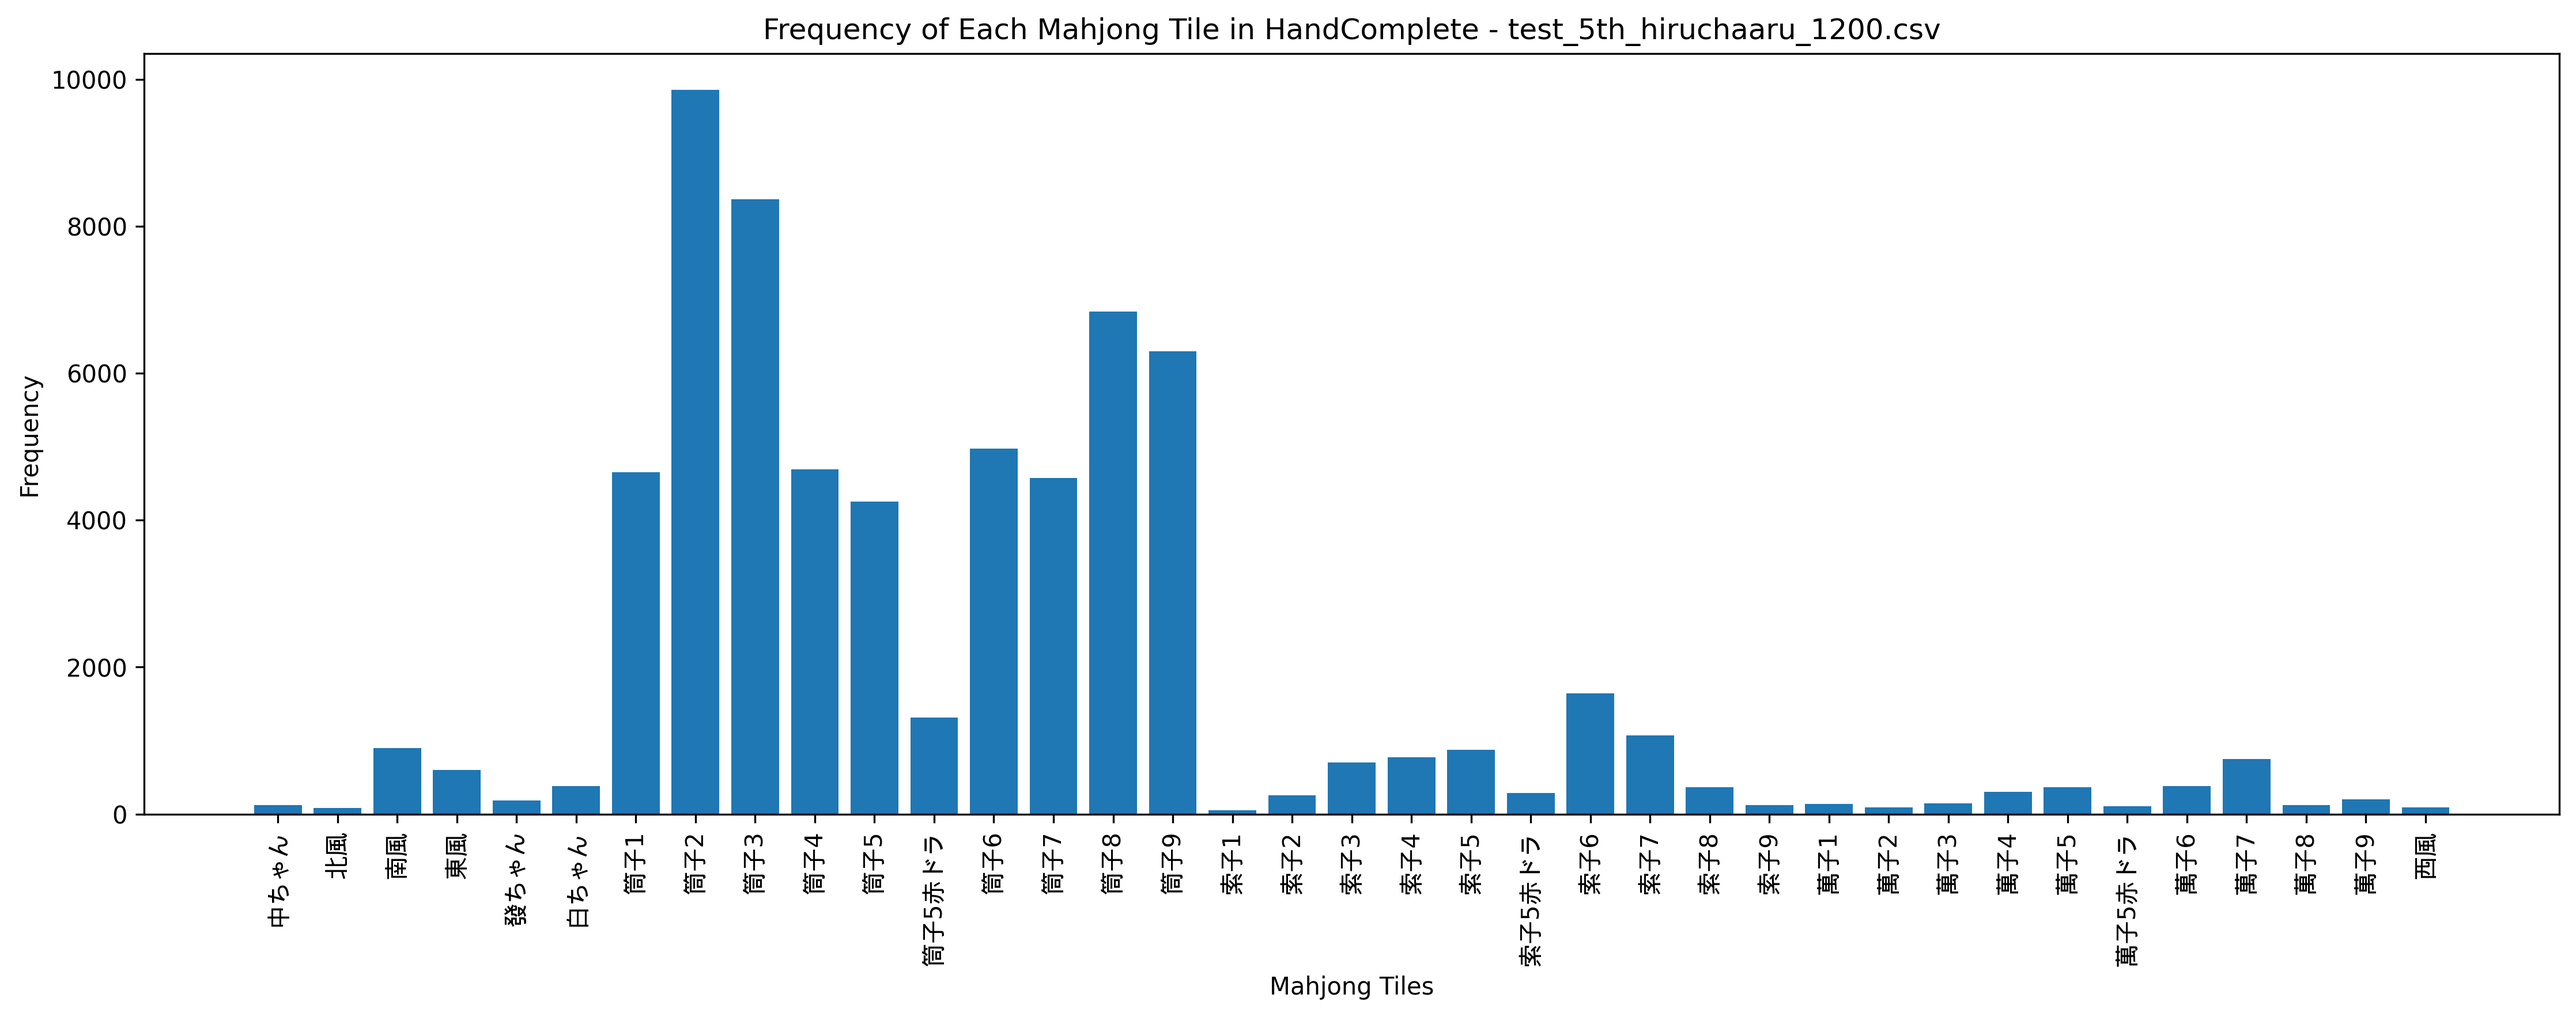
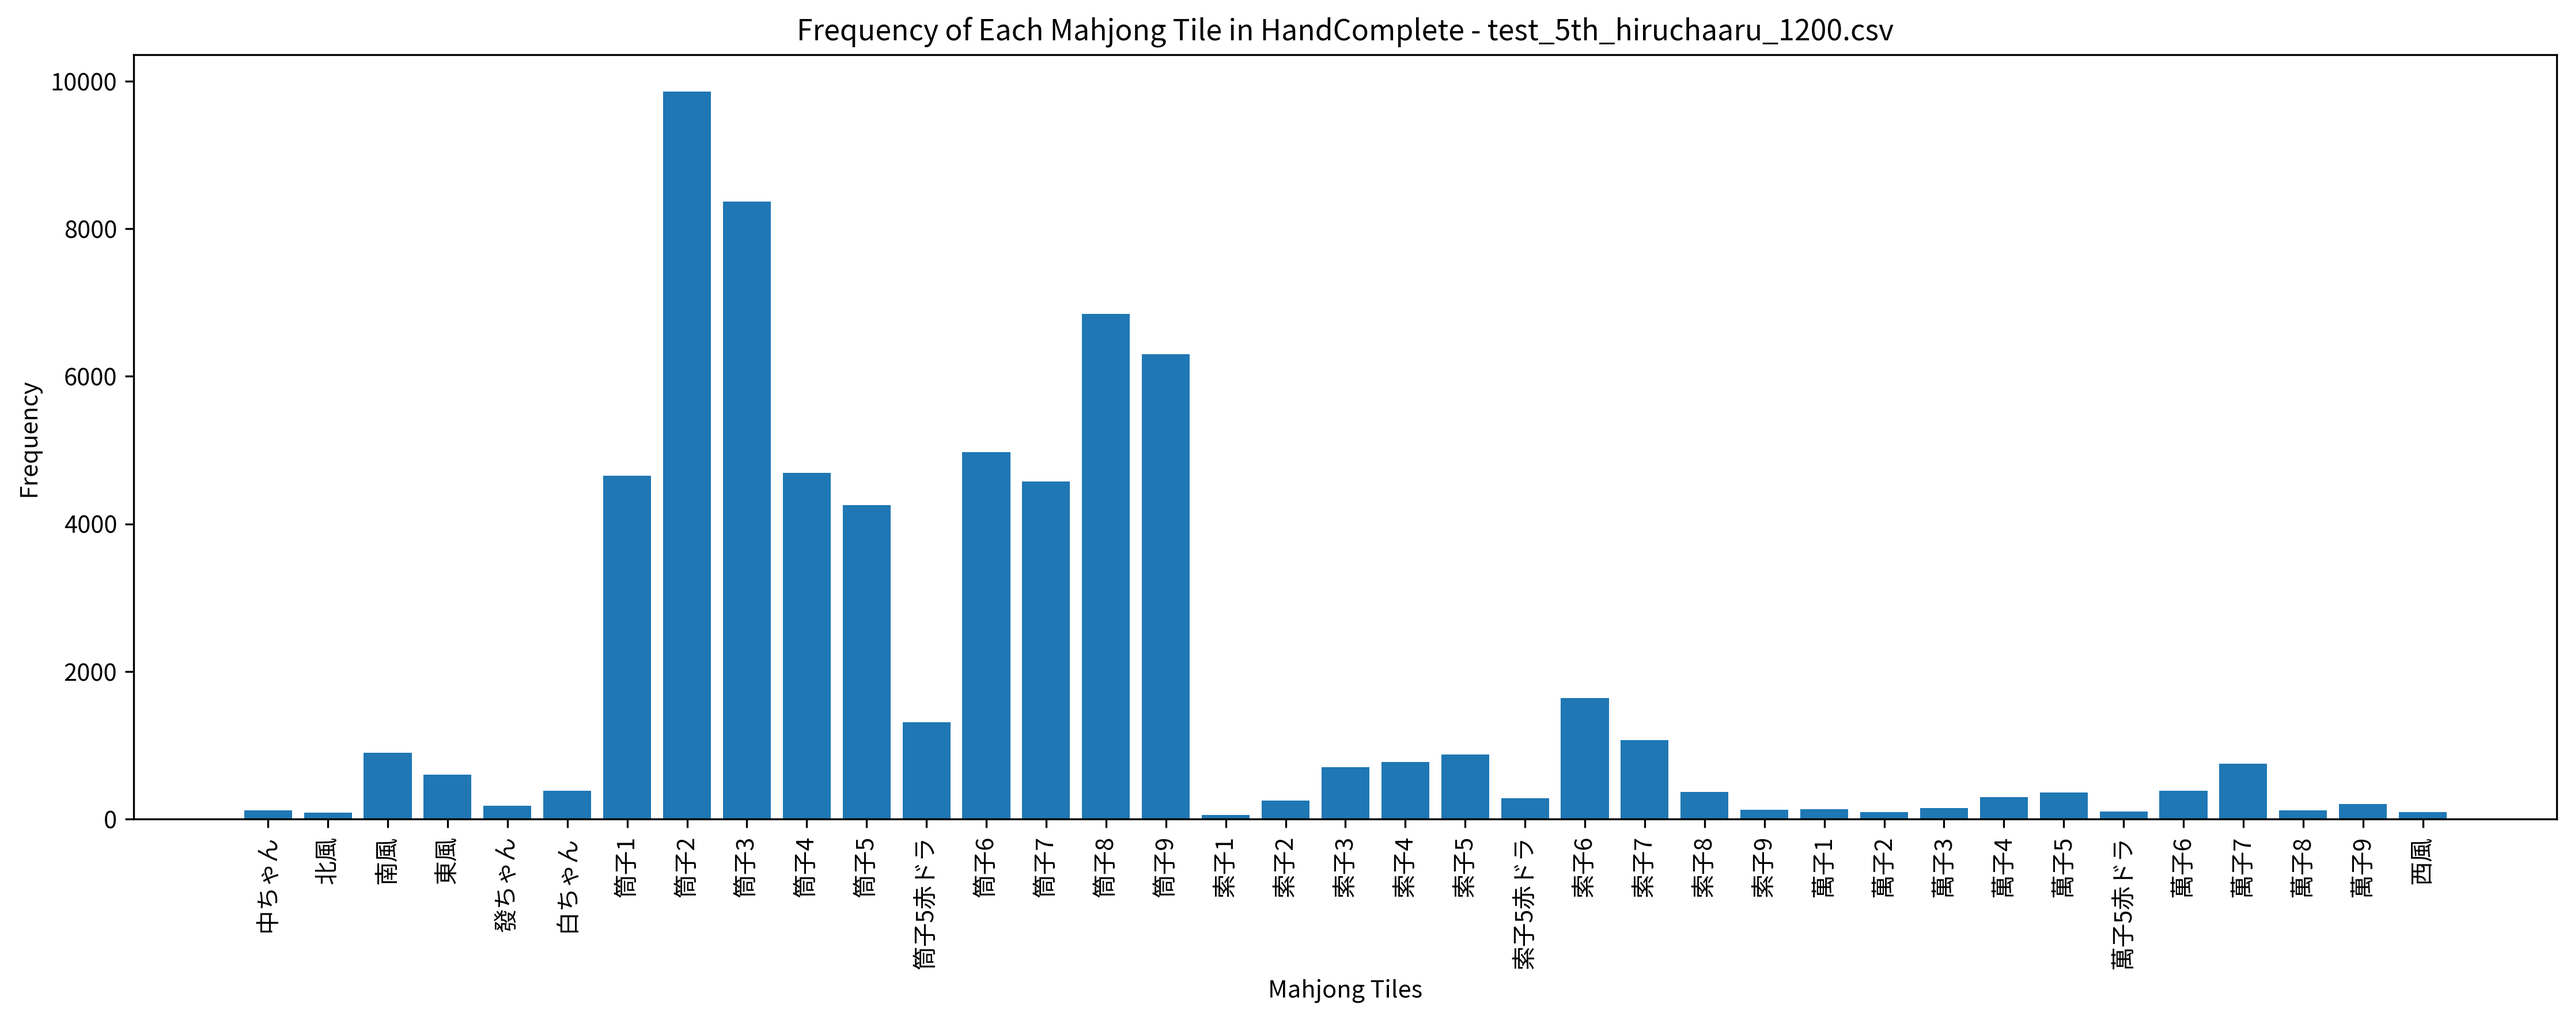
✨

diff --git a/hs_test_csv_analyze.py b/hs_test_csv_analyze.py
@@ -7,6 +7,51 @@ import matplotlib.font_manager as fm
 import pandas as pd
 import sys
 
+# --- Font Configuration Enhancement ---
+def configure_fonts_for_plotting():
+    """Set up a robust font configuration that works across different Linux distributions"""
+    # Get all available font families
+    available_fonts = set([f.name for f in fm.fontManager.ttflist])
+    
+    # Define potential font families in order of preference
+    # This list includes common fonts available on various Linux distributions
+    japanese_font_candidates = [
+        'Noto Sans CJK JP', 'Noto Sans JP', 'Noto Sans CJK', 'Noto Sans',  # Widely available on modern Linux
+        'IPAGothic', 'IPAPGothic', 'IPA Gothic', 'IPA PGothic',           # Japanese IPA fonts
+        'Droid Sans Japanese', 'Droid Sans Fallback',                      # Older Android fonts
+        'MS Gothic', 'MS PGothic', 'MS UI Gothic',                         # Windows Japanese fonts
+        'VL Gothic', 'Meiryo', 'Meiryo UI',                               # Various others
+        'DejaVu Sans', 'Liberation Sans',                                  # Fallbacks with partial CJK support
+        'sans-serif'                                                       # Ultimate fallback
+    ]
+    
+    # Find the first available font
+    font_family = 'sans-serif'  # Default fallback
+    for font in japanese_font_candidates:
+        if font in available_fonts:
+            font_family = font
+            print(f"Using font: {font}")
+            break
+    
+    # Configure matplotlib to use the selected font
+    plt.rcParams['font.family'] = font_family
+    
+    # Alternative approach: specify a list of fonts for fallback
+    # This helps matplotlib try each font in order until it finds one that works
+    plt.rcParams['font.sans-serif'] = [font for font in japanese_font_candidates 
+                                      if font in available_fonts] + ['sans-serif']
+    
+    # Ensure Unicode minus signs render correctly
+    plt.rcParams['axes.unicode_minus'] = False
+    
+    # Optional: Print the detected fonts for debugging
+    print("\nAvailable CJK/Japanese fonts detected:")
+    japanese_fonts = [f.name for f in fm.fontManager.ttflist 
+                     if any(keyword in f.name.lower() for keyword in 
+                           ['cjk', 'jp', 'japanese', 'gothic', 'mincho', 'unicode', 'ipa'])]
+    for font in sorted(japanese_fonts):
+        print(f" - {font}")
+    print("-" * 20)
 
 def tile_to_index(self, tile):
     """Convert tile to unique index"""
@@ -40,21 +85,8 @@ preferred_tile_threshold = 2222
 summary_filename = 'agent_summary.csv'
 # --- End Configuration ---
 
-# Use a fallback mechanism with multiple fonts
-# This is crucial for potential non-ASCII characters in future updates,
-# though standard tile names like m1, p5, s9, ji1 are ASCII.
-plt.rcParams['font.family'] = ['DejaVu Sans', 'Droid Sans Japanese']
-# Make sure Unicode minus signs render correctly
-plt.rcParams['axes.unicode_minus'] = False
-
-# --- Optional: Print available fonts for debugging ---
-# print("\nAvailable fonts with Japanese support:")
-# japanese_fonts = [f.name for f in fm.fontManager.ttflist
-#                   if any(keyword in f.name.lower() for keyword in ['cjk', 'jp', 'japanese', 'gothic', 'mincho', 'unicode'])]
-# for font in sorted(japanese_fonts):
-#     print(f" - {font}")
-# print("-" * 20)
-# --- End Optional ---
+# Use our enhanced font configuration
+configure_fonts_for_plotting()
 
 # Get all files in the directory
 try:
@@ -146,7 +178,6 @@ for file_name in csv_files:
         else:
             print("  Column 'HandComplete' not found in file. Skipping tile analysis and plot.")
 
-
     except Exception as e:
         print(f"  Error processing file {file_path}: {e}")
         # Assign error indicators if processing failed
@@ -158,7 +189,6 @@ for file_name in csv_files:
     preferred_tiles = [tile for tile, count in tile_counts.items() if count > preferred_tile_threshold]
     preferred_tiles_str = ", ".join(preferred_tiles) if preferred_tiles else 'None'
     print(f"  Preferred Tiles (> {preferred_tile_threshold} frequency): {preferred_tiles_str}")
-
 
     # --- Store Summary Data ---
     summary_data.append({
